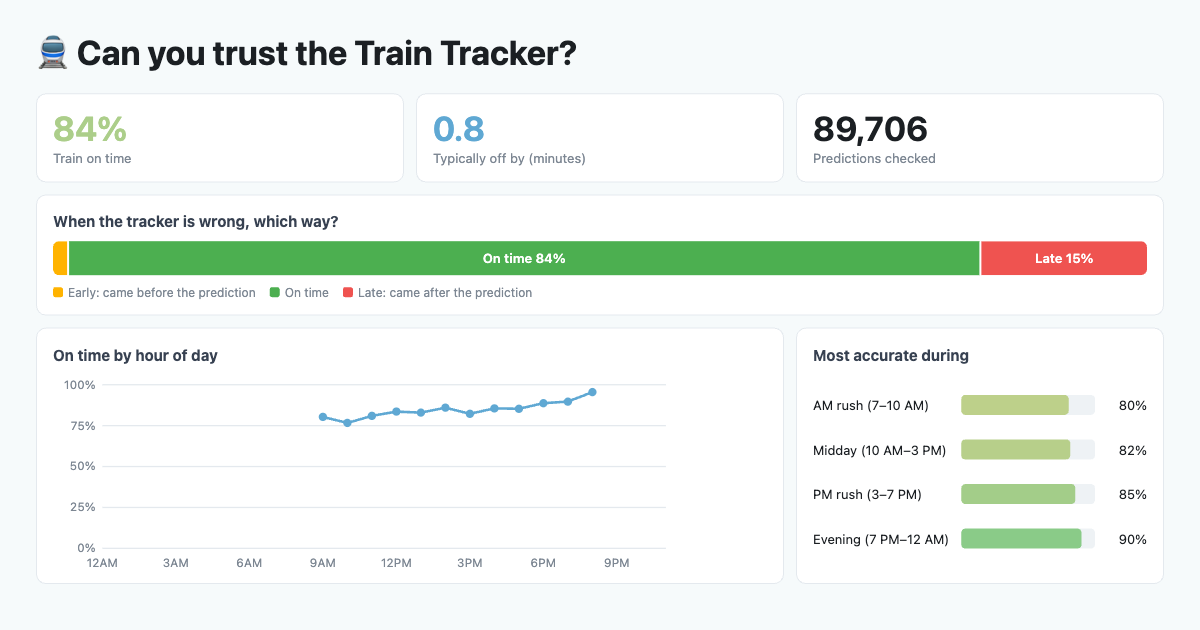
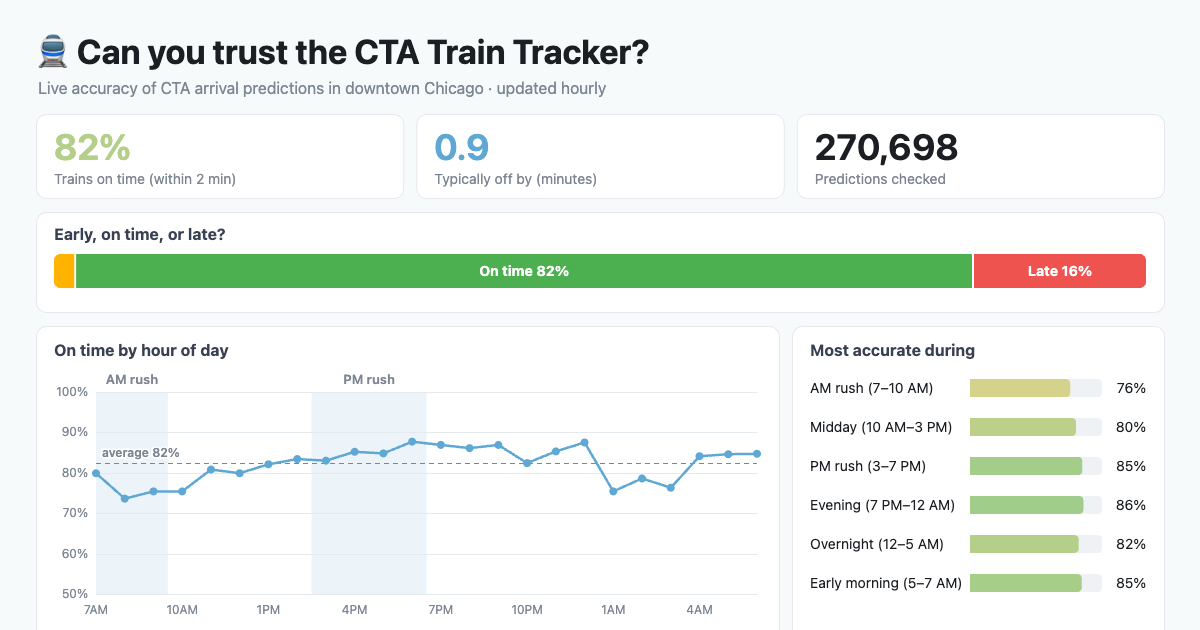
Refresh link-preview image; keep the average label readable
New 1200x630 preview.png with the current layout and Nov 17 data. Average label on the hour chart gets an outline so the line can't cover it.

Claude-Session: https://claude.ai/code/session_014jH6AXu6Aj4qGNmUsuTKjS

diff --git a/docs/index.html b/docs/index.html
@@ -192,7 +192,7 @@ function hourChart(byHour){
   for(const [name,h0,h1] of [["AM rush",7,9],["PM rush",15,18]]){const x0=Math.max(PL,X(h0)-step/2),x1=X(h1)+step/2;
     grid+=`<rect x="${x0}" y="${PT}" width="${x1-x0}" height="${H-PT-PB}" fill="var(--line-c)" opacity=".12"/><text x="${(x0+x1)/2}" y="${PT-5}" text-anchor="middle" class="tick" style="font-weight:600">${name}</text>`}
   for(let v=lo;v<=100;v+=gs)grid+=`<line x1="${PL}" x2="${W-PR}" y1="${Y(v)}" y2="${Y(v)}" stroke="var(--line)"/><text x="${PL-5}" y="${Y(v)+3}" text-anchor="end" class="tick">${v}%</text>`;
-  if(tot.n){const a=rate(tot);grid+=`<line x1="${PL}" x2="${W-PR}" y1="${Y(a)}" y2="${Y(a)}" stroke="var(--mut)" stroke-dasharray="4 3"/><text x="${W-PR}" y="${Y(a)-4}" text-anchor="end" class="tick" style="font-weight:600">average ${pct(a)}</text>`}
+  if(tot.n){const a=rate(tot);grid+=`<line x1="${PL}" x2="${W-PR}" y1="${Y(a)}" y2="${Y(a)}" stroke="var(--mut)" stroke-dasharray="4 3"/><text x="${W-PR}" y="${Y(a)-4}" text-anchor="end" class="tick" style="font-weight:600" stroke="var(--card)" stroke-width="3" paint-order="stroke">average ${pct(a)}</text>`}
   for(let k=0;k<24;k+=3){const h=(k+7)%24;lbl+=`<text x="${X(h)}" y="${H-2}" text-anchor="middle" class="tick">${h12(h).replace(" ","")}</text>`}
   for(let k=0;k<24;k++){const h=(k+7)%24,t=byHour[h],r=t?rate(t):null;
     if(r==null){if(cur.length){segs.push(cur);cur=[]}continue}
